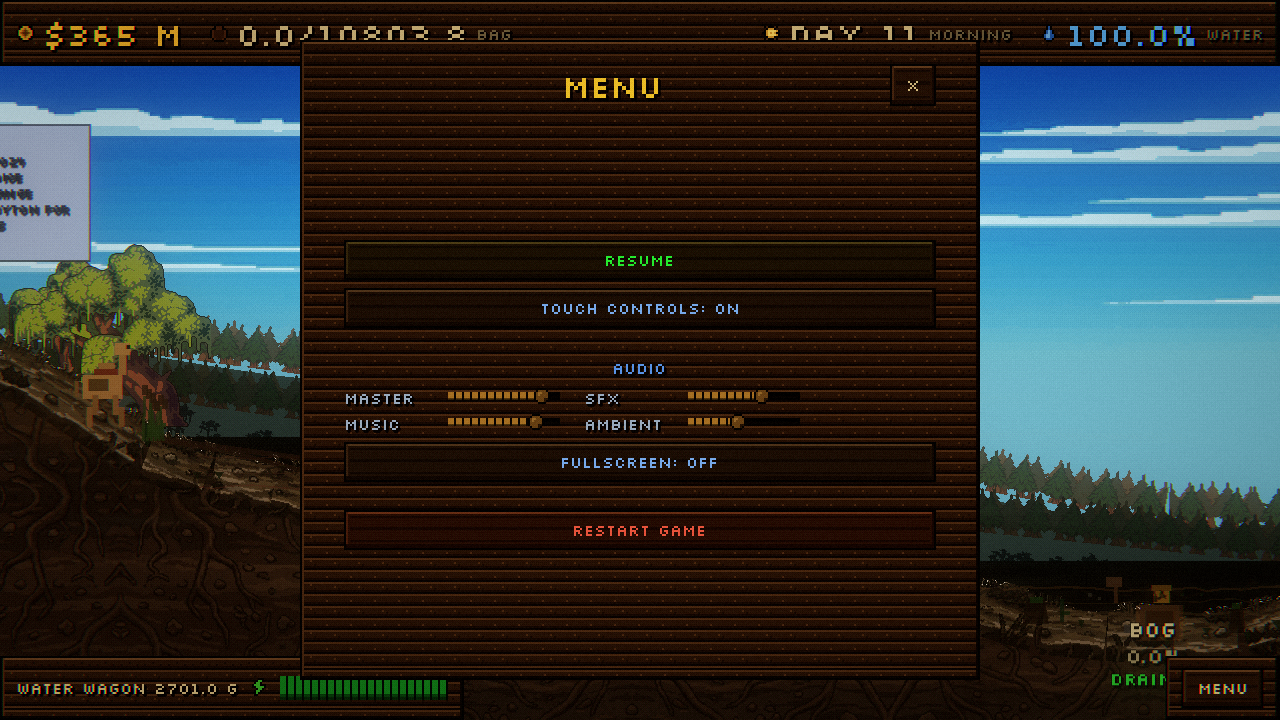
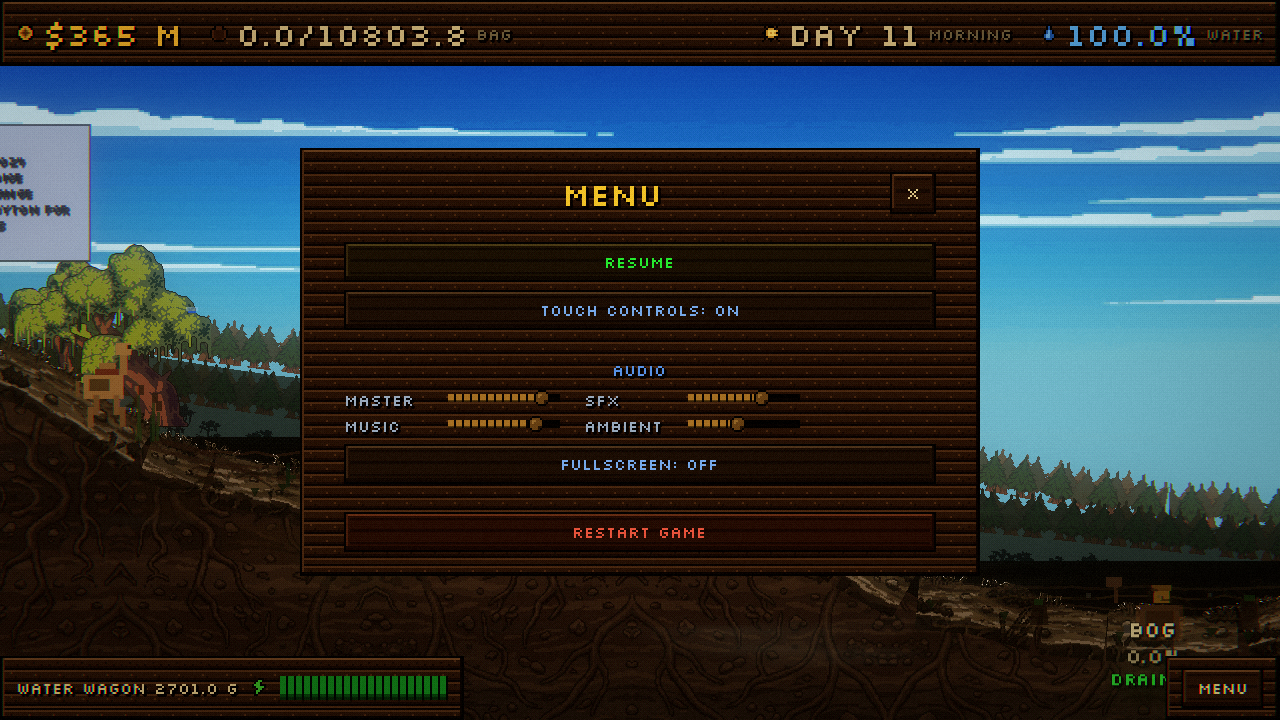
v3 hud: fix menu panel overlapping the top HUD bar
Round 3 coordinator review: the round-2 tightened menu still stretched to
fill its whole anchored rect (offset_top=20 UI units = 40px, above the top
bar's real bottom edge at y=66px), overlapping the BAG/DAY labels, plus two
dead bands where VBoxContainer content centered inside a taller-than-content
container.

Restructured scenes/ui/menu_panel.tscn: MenuPanel is now an invisible
full-band container (empty panel stylebox, offsets 33..-31 UI units, matching
the measured top/bottom bar edges) holding a CenterContainer that centers a
new Box PanelContainer (the actual wood panel, fixed width via
custom_minimum_size, height shrink-wrapped to content). Updated
scripts/ui/menu_panel.gd's @onready paths for the new nesting; no behavior
changes.

Re-captured menu_open.png: box sits y=148..572, clear of both bars, no dead
space inside.

Claude-Session: https://claude.ai/code/session_01CcpffDnjW4qk7K15J9eHGm

diff --git a/docs/plans/revamp-tracks/hud.md b/docs/plans/revamp-tracks/hud.md
@@ -114,6 +114,30 @@ capture, touch controls confirmed hidden — no arrow/scoop buttons drawn).
 `tools/capture.py --check` and `DTS_UI=shop python tools/capture.py --check`
 both clean.
 
+## Review round 3 (coordinator): menu regression
+
+Round 2's tighter menu still stretched to the full anchored rect (now
+`offset_top=20 .. offset_bottom=-20`, 20 UI units = 40px, above the top bar's
+actual bottom edge at y=66px), so it overlapped the top HUD bar and had two
+dead bands (VBoxContainer content centered by `alignment=1` inside a
+container taller than its content).
+
+Fixed by no longer letting the wood panel *be* the anchored rect. Restructured
+`scenes/ui/menu_panel.tscn`: `MenuPanel` is now an invisible full-band
+container (`theme_override_styles/panel` = empty stylebox,
+`mouse_filter = IGNORE`, offsets `33 .. -31` in UI units — measured directly
+from a clean capture: top bar bottom edge at screen y=66 = UI y=33, bottom
+bar top edge at y=658 = UI y=329 = offset -31 from 360) holding a
+`CenterContainer` that centers a new `Box` `PanelContainer` (the actual wood
+panel, `custom_minimum_size.x = 340` to keep the same width as before,
+height now shrink-wrapped to content). `scripts/ui/menu_panel.gd`'s
+`@onready` paths updated to the new `CenterContainer/Box/...` nesting; no
+other logic changed.
+
+Re-captured `menu_open.png`: box now sits y=148..572, clear of the top bar
+(0..66) and bottom bar (658..720), tight around its content with no dead
+space.
+
 ## What is still old / out of scope
 
 - The billboard sprite and floating basin labels ("MARSH 100.0%", "BOG...")
